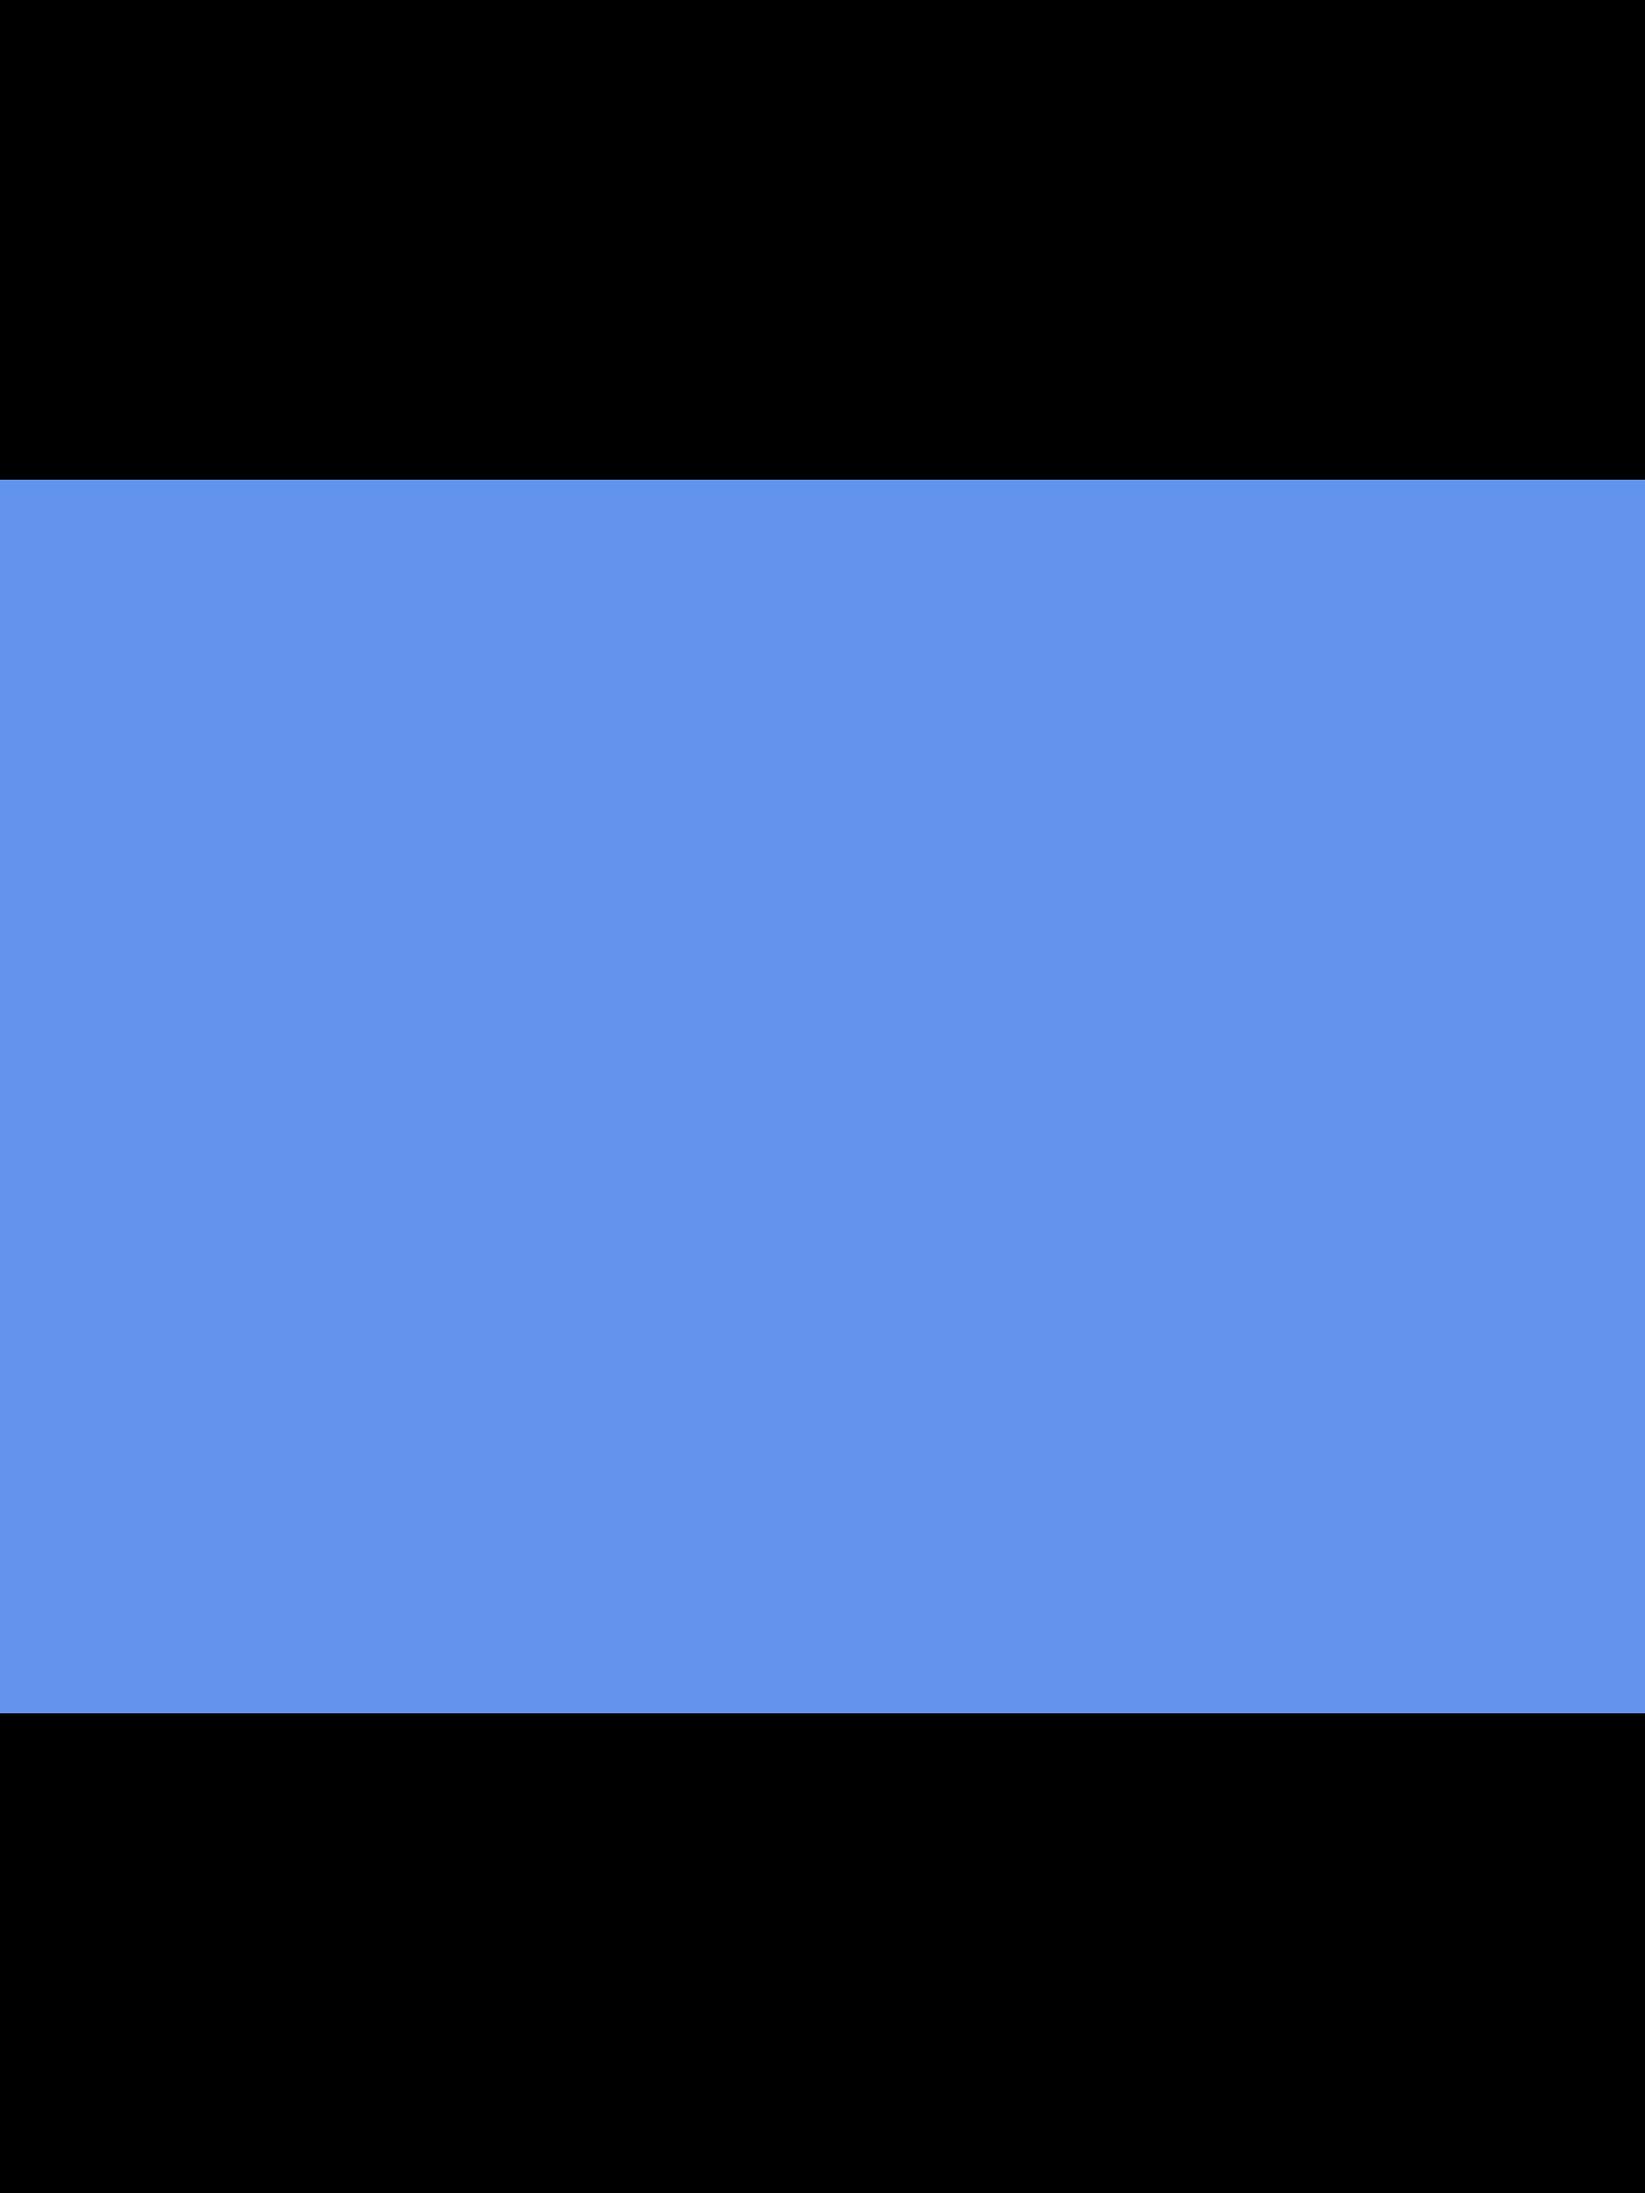
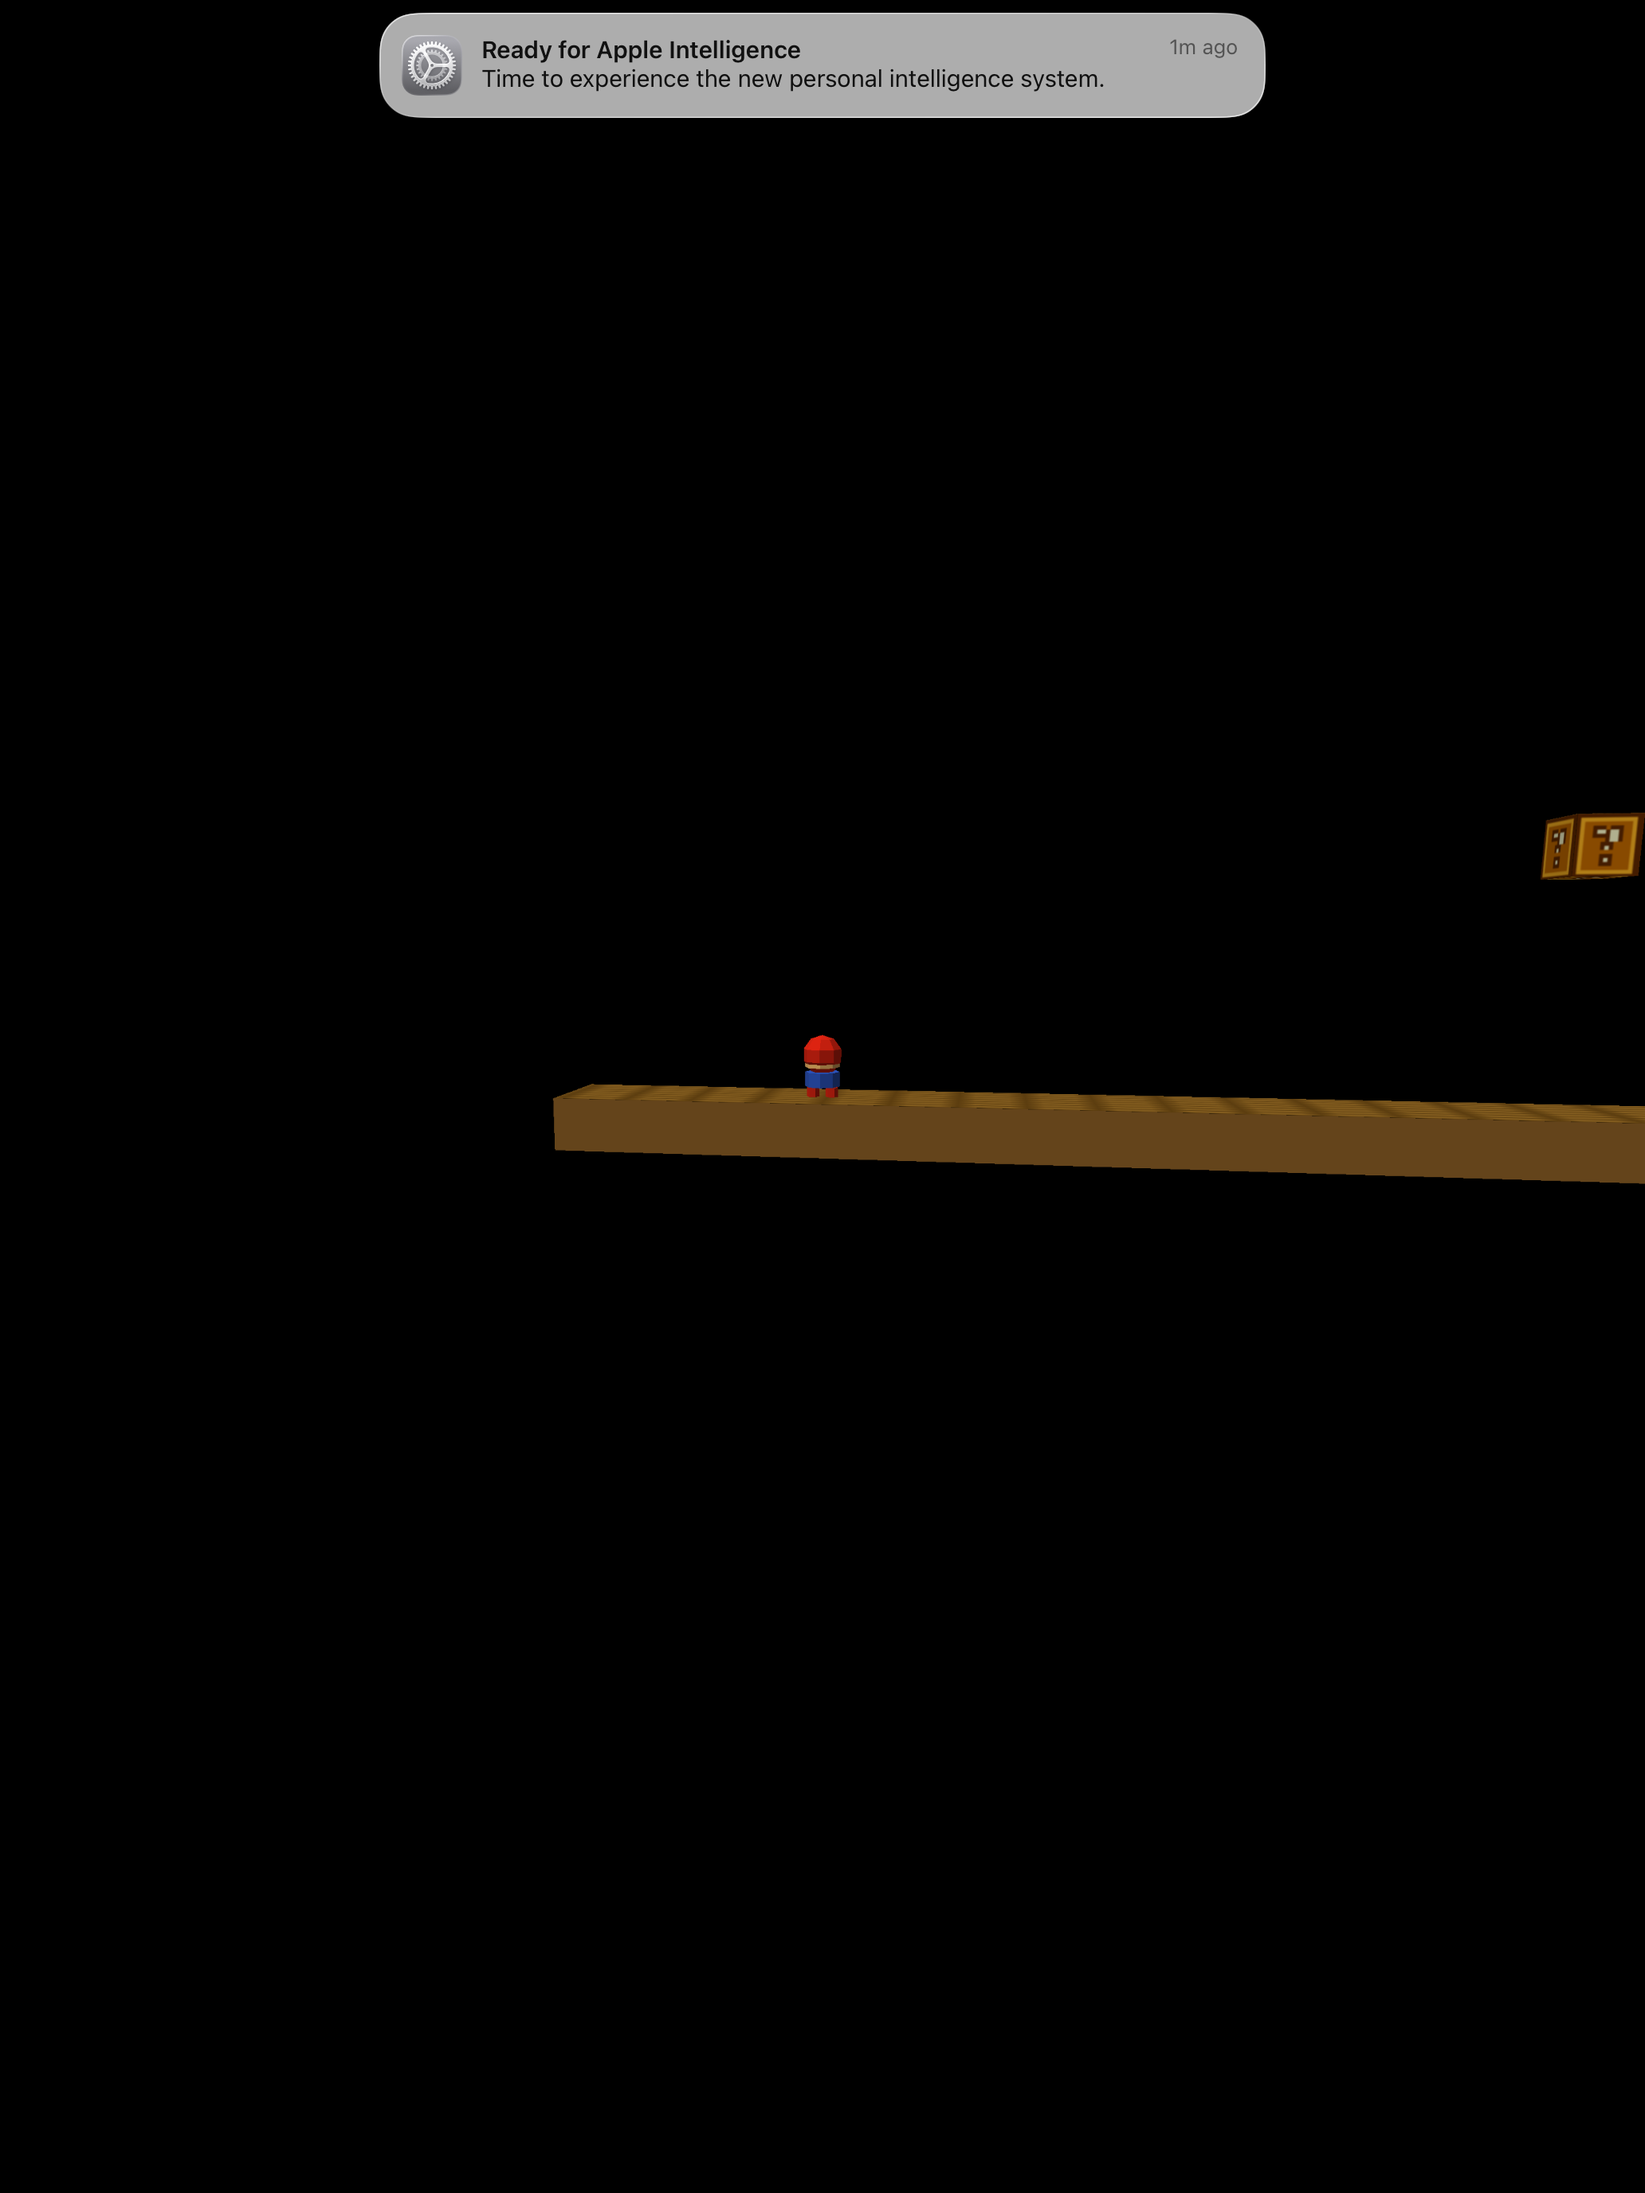
porting-status: iOS draws the game and the aquarium; the aquarium runs in an Android emulator
Replace the iOS blue-fill screenshots with real ones, add the aquarium under iOS Metal (iPhone shot is rotated:
landscape-only app) and the Android emulator screenshots (TV-shaped, phone-shaped if it showed the game), and
refresh the summary rows and details. Emulators/simulators only; no real devices.

Claude-Session: https://claude.ai/code/session_01NNPhRbrqjqMDkScPvTE9yC

diff --git a/docs/porting-status.md b/docs/porting-status.md
@@ -1,6 +1,6 @@
 # Porting status: World Foundry on every platform
 
-As of 2026‑10‑01 00:45 (+07) = 2026‑09‑30 17:45 UTC. Everything below was observed in a Codemagic build or a local
+As of 2026‑10‑01 01:33 (+07) = 2026‑09‑30 18:33 UTC. Everything below was observed in a Codemagic build or a local
 run on that day, and each claim links to its evidence. **—** means not assessed today, not "works". Legend: ✅ verified,
 🟡 partial, ❌ not working, ⬜ not tested. Plan: [the aquarium on every platform](plans/2026-09-30-aquarium-platforms.md).
 
@@ -10,9 +10,9 @@ run on that day, and each claim links to its evidence. **—** means not assesse
 |---|---|---|---|---|---|
 | **Linux desktop** (OpenGL) | ✅ | ✅ | ✅ (the reference renderer) | ✅ keyboard, gamepad | ✅ (this machine) |
 | **macOS desktop** (Metal) | ✅ [build 6abd3923](https://codemagic.io/app/6aafa6886ab3f21cf431a6cb/build/6abd3923a7c72c2289f7506c) | ✅ window, close paths, fullscreen | ✅ pixel-matches Linux | 🟡 keyboard ✅, ⌘Q ✅, red button ✅, Esc not provable in CI | ⬜ no Mac owned; Retina untested |
-| **iOS, iPhone and iPad** (Metal) | ✅ builds and links ([build 6abd3f6b](https://codemagic.io/app/6aafa6886ab3f21cf431a6cb/build/6abd3f6b471c8a90c6e1da1a)) | 🟡 installs and launches in simulators, then aborts after about 10 s | ❌ only the clear colour | ⬜ touch not implemented yet | ⬜ needs the $99 Apple account |
-| **Android phone and tablet** (GLES 3) | ✅ [build 6abd1529](https://codemagic.io/app/6aafa6886ab3f21cf431a6cb/build/6abd1529669c35dd0f161d7a) (was broken 09‑21 to 09‑30, fixed) | ⬜ not run since the fix | ⬜ | ⬜ | ⬜ |
-| **Chromecast with Google TV** (same APK) | ✅ aquarium app [build 6abd1c20](https://codemagic.io/app/6aafa6886ab3f21cf431a6cb/build/6abd1c20874cdae673caf7ae) | ⬜ | ⬜ | ⬜ gamepad profile ready | ⬜ needs the device's IP address |
+| **iOS, iPhone and iPad** (Metal) | ✅ ([build](https://codemagic.io/app/6aafa6886ab3f21cf431a6cb/build/6abd4a709ee70f86b0ffeff6)) | ✅ installs, launches and stays alive in the iPhone and iPad simulators | ✅ the game and the aquarium, in both simulators | ⬜ touch not implemented yet | ⬜ needs the $99 Apple account |
+| **Android phone and tablet** (GLES 3) | ✅ [build 6abd1529](https://codemagic.io/app/6aafa6886ab3f21cf431a6cb/build/6abd1529669c35dd0f161d7a) (was broken 09‑21 to 09‑30, fixed) | ✅ the aquarium app runs in an Android emulator on this PC (x86_64 with ARM translation, software graphics) | ✅ in the emulator | 🟡 the on-screen touch D-pad and A/B buttons are drawn; not exercised | ⬜ never on a real phone |
+| **Chromecast with Google TV** (same APK) | ✅ aquarium app [build 6abd1c20](https://codemagic.io/app/6aafa6886ab3f21cf431a6cb/build/6abd1c20874cdae673caf7ae) | 🟡 runs in a TV-shaped (1920×1080) emulator; not a real Chromecast | 🟡 in the emulator | ⬜ gamepad profile ready, not exercised | ⬜ needs the device's IP address |
 
 ## The aquarium on each platform
 
@@ -33,12 +33,23 @@ real-time play. The same level file and the same flags on every platform.
 | iOS simulator, iPhone 17 Pro | iOS simulator, iPad Pro 13‑inch |
 |---|---|
 | <img src="porting-status/ios-iphone-simulator.png" width="200"> | <img src="porting-status/ios-ipad-simulator.png" width="320"> |
-| **The app runs, but no scene is drawn:** the screenshot is the solid clear colour. The engine's frames do not reach the Metal view yet. | Same. The CI check called the iPad "OK" because the black letterbox bars add colours: a **false positive**, being fixed. |
+| **The game now draws.** The bundled level 0 (Super Mario Bros. 1‑1). The framing is not tuned for a portrait phone. | Same on the iPad. The banner at the top is a Simulator system notification. Both are simulators, not real devices. Earlier today both screenshots were a solid blue fill. |
 
 | Android and Chromecast: the app tile | What the TV will show (16:9) |
 |---|---|
 | <img src="porting-status/android-tv-banner.png" width="320"> | <img src="porting-status/aquarium-16x9-linux.png" width="420"> |
 | The aquarium's Google TV launcher banner. The APK builds; no device has run it yet. | A Linux render at 1920×1080 (the TV's shape); the level was tuned for 4:3, and the whole tank still fits. **Not a Chromecast screenshot.** |
+
+<!-- ios-aquarium-shots -->
+| iOS Metal, **aquarium** on iPhone 17 Pro | iOS Metal, **aquarium** on iPad Pro 13‑inch |
+|---|---|
+| <img src="porting-status/ios-aquarium-iphone.png" width="200"> | <img src="porting-status/ios-aquarium-ipad.png" width="320"> |
+| The aquarium-only `cd.iff` in the iOS simulator ([CI run](https://codemagic.io/app/6aafa6886ab3f21cf431a6cb/build/6abd4f31103ed7df74f88df3), scripted, no input). **Rotated 90°:** the level is landscape and the app is landscape-only, but the screenshot was taken with the simulator in portrait. | Same on the iPad: the landscape frame sits letterboxed inside the portrait screen. Simulator only, not a real device. |
+
+| Android emulator, TV-shaped (1920×1080) |
+|---|
+| <img src="porting-status/android-emulator-tv.png" width="420"> |
+| The aquarium app in an Android emulator on this PC: x86_64 image with ARM translation, software graphics, scripted launch, no input. The D-pad and A/B in the corners are the touch overlay. About 0.4 s per frame in this setup, which says nothing about a Chromecast. **Not a real device.** |
 
 ## Details
 
@@ -48,13 +59,15 @@ real-time play. The same level file and the same flags on every platform.
 - **⌘Q and the red close button** quit cleanly (status 0) with real System Events input, and **`-fullscreen`** covers the display without changing its resolution ([close-paths step](plans/2026-09-21-macos-close-paths.md)).
 - **Open:** Retina (the runner is scale 1.0), Esc delivery in CI (the VNC pass stands), double-click launch of the `.app`, the `cd.iff`-from-bundle path (CI uses `-L`), a real Mac.
 
-### iOS (Metal): builds, does not draw yet
-- Got from "configure fails" to "builds, links, installs, launches" today: Jolt extraction, the `MTLStorageModeManaged` iOS guard, and three missing link symbols.
-- **Open:** engine frames to the screen (iOS Phase 2C‑B), a CoreAudio deadlock that aborts the app on the simulator, touch input and lifecycle (Phase 3), real devices (signing). A branch is working on the first two.
+### iOS (Metal): builds, links and draws in the simulators
+- Today: from "configure fails" to "renders the game and the aquarium" in the iPhone 17 Pro and iPad Pro 13‑inch simulators ([CI run](https://codemagic.io/app/6aafa6886ab3f21cf431a6cb/build/6abd4a709ee70f86b0ffeff6), merged into `2026-new-level`). The fixes: Jolt extraction; the `MTLStorageModeManaged` iOS guard; three missing link symbols; the engine thread now presents its own frames (the display link only cleared the screen to blue and every triangle was dropped); iOS compiles the same GL-pipeline geometry files as macOS; audio is skipped on the **simulator only** (Apple's audio server never answers on the headless runner and the app is killed after 10 s; real devices are unchanged, `WF_IOS_SIM_AUDIO=1` turns it back on).
+- The CI verdict: the app alive at 20 s and more than 50 colours in the centre of the screenshot, so a solid fill can no longer pass.
+- **Open:** touch input and lifecycle (Phase 3), the landscape-only app shows rotated on an iPhone, a real device (Apple signing), audio on any iOS target.
 
-### Android and Chromecast (GLES 3): builds, unrun
-- The Android build had been **broken since 09‑21** (`GL_RGB5` is not in GLES 3.0; `backtrace()` needs API 33) and is fixed. Both apps (snowgoons and the aquarium, separate app ids) build in CI.
-- **Open:** running either on a phone or a Chromecast, frame cost on Chromecast hardware, audio (silent stub). The device run needs the Chromecast's IP address with Network debugging enabled, and ideally a paired gamepad.
+### Android and Chromecast (GLES 3): builds and runs in an emulator
+- The Android build had been **broken since 09‑21** (`GL_RGB5` is not in GLES 3.0; `backtrace()` needs API 33) and is fixed. Both apps (snowgoons and the aquarium, separate app ids) build in CI, on the free Mac machines.
+- Codemagic's free Mac machines cannot run an Android emulator ([no nested virtualization](https://docs.codemagic.io/yaml-testing/testing/)), so the emulator run was done locally on this PC (KVM).
+- **Open:** a real phone or Chromecast (needs the device's IP address with Network debugging enabled, ideally a paired gamepad), frame cost on Chromecast hardware, audio (silent stub), input exercised.
 
 ### Linux: the reference
 - Builds, runs and renders everything; the aquarium has 38 passing tests and a demo video (`tests/recordings/aquarium_phase4_motion_demo.mp4`). Its committed frames are the references the other platforms are compared against, and a test re-renders them so they cannot go stale.
